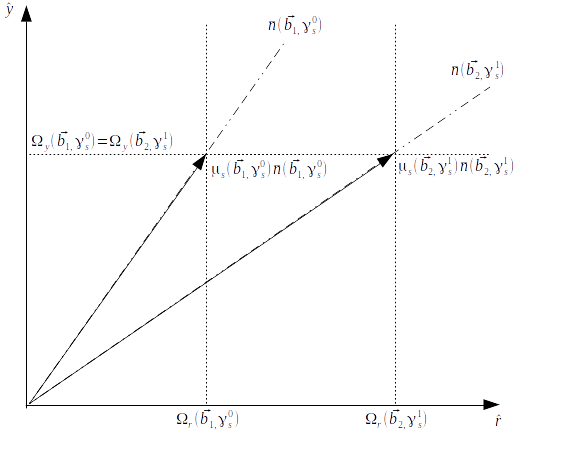
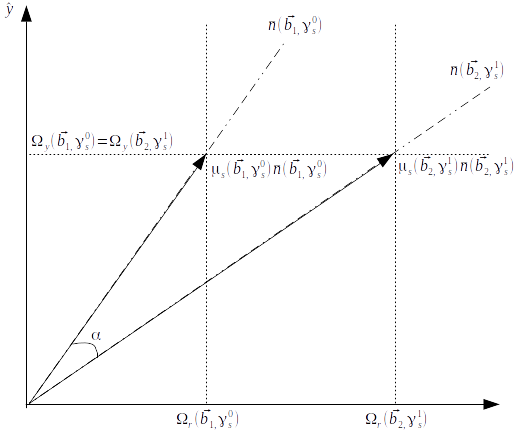
NTR

diff --git a/doc/Thesis_plan/Experiment/equation004.tex b/doc/Thesis_plan/Experiment/equation004.tex
@@ -1,1 +1,1 @@
-\Omega_r(\gamma_s^0) = \Omega_r(\gamma_s^1)
+\Omega_y(\vec b_1, \gamma_s^0) = \Omega_y(\vec b_2, \gamma_s^1) \Rightarrow \Omega_r(\vec b_1,\gamma_s^0) = \Omega_r(\vec b_2,\gamma_s^1)

diff --git a/doc/Thesis_plan/Experiment/equation013.tex b/doc/Thesis_plan/Experiment/equation013.tex
@@ -1,0 +1,1 @@
+\bar n^D_i(\vec b, \gamma_s) = (a_1^i, a_2^i, ... a_N^i)_D, \bar n^R(\vec b, \gamma_s) = (a_1^i, ..., a_n^i)_R

diff --git a/doc/Thesis_plan/Experiment/equation011.tex b/doc/Thesis_plan/Experiment/equation011.tex
@@ -1,0 +1,1 @@
+\cos \alpha = \bar n(\vec b_1, \gamma_s^0) \cdot \bar n (\vec b_2, \gamma_s^1)

diff --git a/doc/Thesis_plan/Experiment/equation020.tex b/doc/Thesis_plan/Experiment/equation020.tex
@@ -1,0 +1,1 @@
+\forall \vec b_1, \vec b_2 \in Z \exists (\gamma_s^0, \gamma_s^1): \alpha = 0

diff --git a/doc/Thesis_plan/Experiment/equation017.tex b/doc/Thesis_plan/Experiment/equation017.tex
@@ -1,0 +1,1 @@
+\{\bar n^D(\vec b_i, \gamma_s)|i\}, \{\bar n^R(\vec b_j, \gamma_s)|j\}

diff --git a/doc/Thesis_plan/Experiment/equation006.tex b/doc/Thesis_plan/Experiment/equation006.tex
@@ -1,1 +1,1 @@
-\bar n(\vec b, \gamma_s)
+\bar n(\vec b_i, \gamma_s^j); i,j\in 3

diff --git a/doc/Thesis_plan/Experiment/equation014.tex b/doc/Thesis_plan/Experiment/equation014.tex
@@ -1,0 +1,1 @@
+\bar n^\chi_i(\vec b,\gamma_s) = (a_1^i, a_2^i, ... a_N^i)

diff --git a/doc/Thesis_plan/Experiment/equation016.tex b/doc/Thesis_plan/Experiment/equation016.tex
@@ -1,0 +1,1 @@
+\bar n^D(\vec b, \gamma_s), \bar n^R(\vec b, \gamma_s)

diff --git a/doc/Thesis_plan/Experiment/equation007.tex b/doc/Thesis_plan/Experiment/equation007.tex
@@ -1,0 +1,1 @@
+\vec b = (x, a, y, b, l, d)

diff --git a/doc/Thesis_plan/Experiment/equation012.tex b/doc/Thesis_plan/Experiment/equation012.tex
@@ -1,0 +1,1 @@
+\bar n (\vec b, \gamma_s)

diff --git a/doc/Thesis_plan/Experiment/equation019.tex b/doc/Thesis_plan/Experiment/equation019.tex
@@ -1,0 +1,1 @@
+\bar n^D \& \bar n^R

diff --git a/doc/Thesis_plan/Experiment/equation015.tex b/doc/Thesis_plan/Experiment/equation015.tex
@@ -1,0 +1,1 @@
+a_j|_{D/R}
